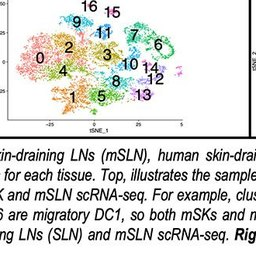
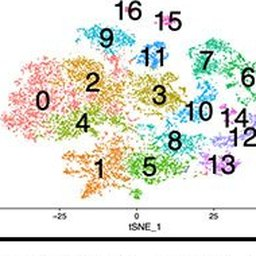
Gallery from open-access figures, tile crops, page text fixes

diff --git a/site/network.html b/site/network.html
@@ -70,7 +70,7 @@
 <div id="site-header"></div>
 <main class="wrap">
   <div class="page-head" style="margin-bottom:.6rem"><p class="eyebrow">Collaborator network</p>
-    <p class="intro">Everyone who appears as an author on at least <span id="minp">3</span> of the lab's papers, shown as a map. <b>Co-authorship</b> links two people who have published together (thicker means more shared papers); <b>similarity</b> links people whose papers cover similar topics and methods, judged from the tags and keywords of their papers. Tor Wager is on nearly every paper, so his links are hidden by default; the <b>Show links to Wager</b> button restores them. Nodes are coloured by lab membership: current members in amber, alumni in blue, other collaborators in grey. Drag nodes, zoom with the buttons or the scroll wheel, hover over a node or link for details, and click a node to pin its details while you browse its papers. The keyword menu rebuilds the map from only the papers carrying that tag.</p>
+    <p class="intro">Everyone who appears as an author on at least <span id="minp">3</span> of the lab's papers, shown as a map. <b>Co-authorship</b> links two people who have published together (thicker means more shared papers); <b>similarity</b> links people whose papers cover similar topics and methods, judged from the tags and keywords of their papers. Claudia Jakubzick is on every paper, so her links are hidden by default; the <b>Show links to Jakubzick</b> button restores them. Nodes are coloured by lab membership: current members in amber, alumni in blue, other collaborators in grey. Drag nodes, zoom with the buttons or the scroll wheel, hover over a node or link for details, and click a node to pin its details while you browse its papers. The keyword menu rebuilds the map from only the papers carrying that tag.</p>
   </div>
   <div class="net-wrap">
     <div class="net" id="net">
@@ -231,7 +231,7 @@
     enter.on("mouseenter", (ev, d) => { if (!pinned) { hi(d, null); showNode(d, false); } }).on("mouseleave", () => { if (!pinned) { hi(null, null); idle(); } })
       .on("click", (ev, d) => { ev.stopPropagation(); pin(d); });
     node = enter.merge(node);
-    // Wager's links, when shown, are weak so the map keeps its structure instead of collapsing into a star
+    // The PI's links, when shown, are weak so the map keeps its structure instead of collapsing into a star
     sim.force("link", d3.forceLink(es).id(d => d.id)
       .distance(d => d.wager ? 220 : (mode === "coauthor" ? 130 - Math.min(60, d.w * 8) : 170 - d.w * 90))
       .strength(d => d.wager ? .02 : (mode === "coauthor" ? Math.min(.9, .15 + d.w * .1) : d.w * .8)));

diff --git a/site/bibliometrics.html b/site/bibliometrics.html
@@ -67,7 +67,7 @@
   <div class="page-head">
     <p class="eyebrow">Bibliometrics</p>
     <h1>The shape of the lab's work</h1>
-    <p>A descriptive look at the lab's publications since 2000: how output has grown, the topics and methods the papers cover, and who we write them with. Figures are recomputed from the <a href="publications.html">publications database</a> on every build, so they reflect the bibliography as it stands today. Every bar, band and co-author is clickable and opens the matching papers in a new tab.</p>
+    <p>A descriptive look at the lab's publications since 2001: how output has grown, the topics and methods the papers cover, and who we write them with. Figures are recomputed from the <a href="publications.html">publications database</a> on every build, so they reflect the bibliography as it stands today. Every bar, band and co-author is clickable and opens the matching papers in a new tab.</p>
   </div>
   <div class="num-row" id="nums"></div>
   <div class="viz-grid" id="viz"><div class="spinner">Computing…</div></div>
